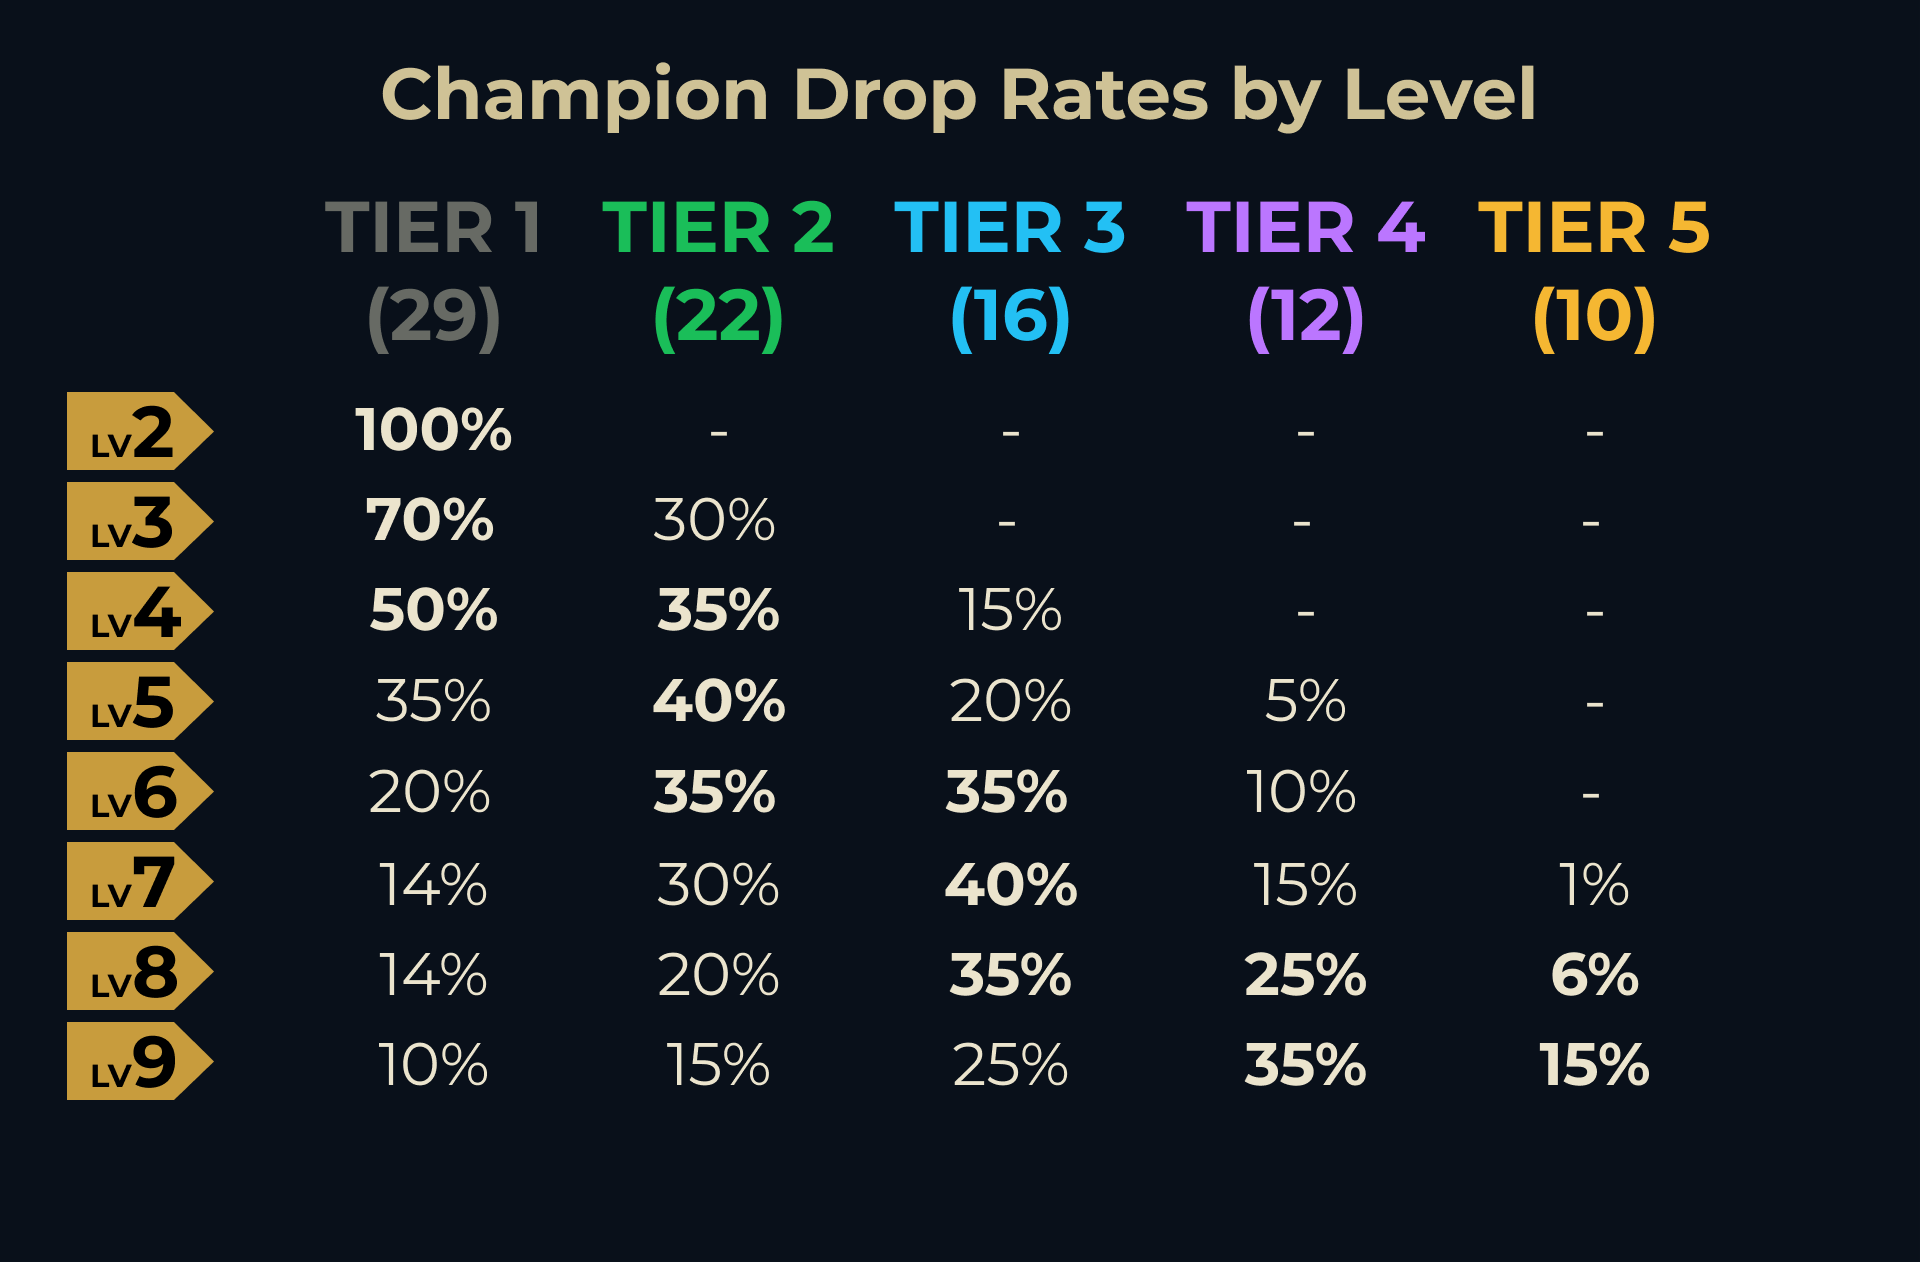
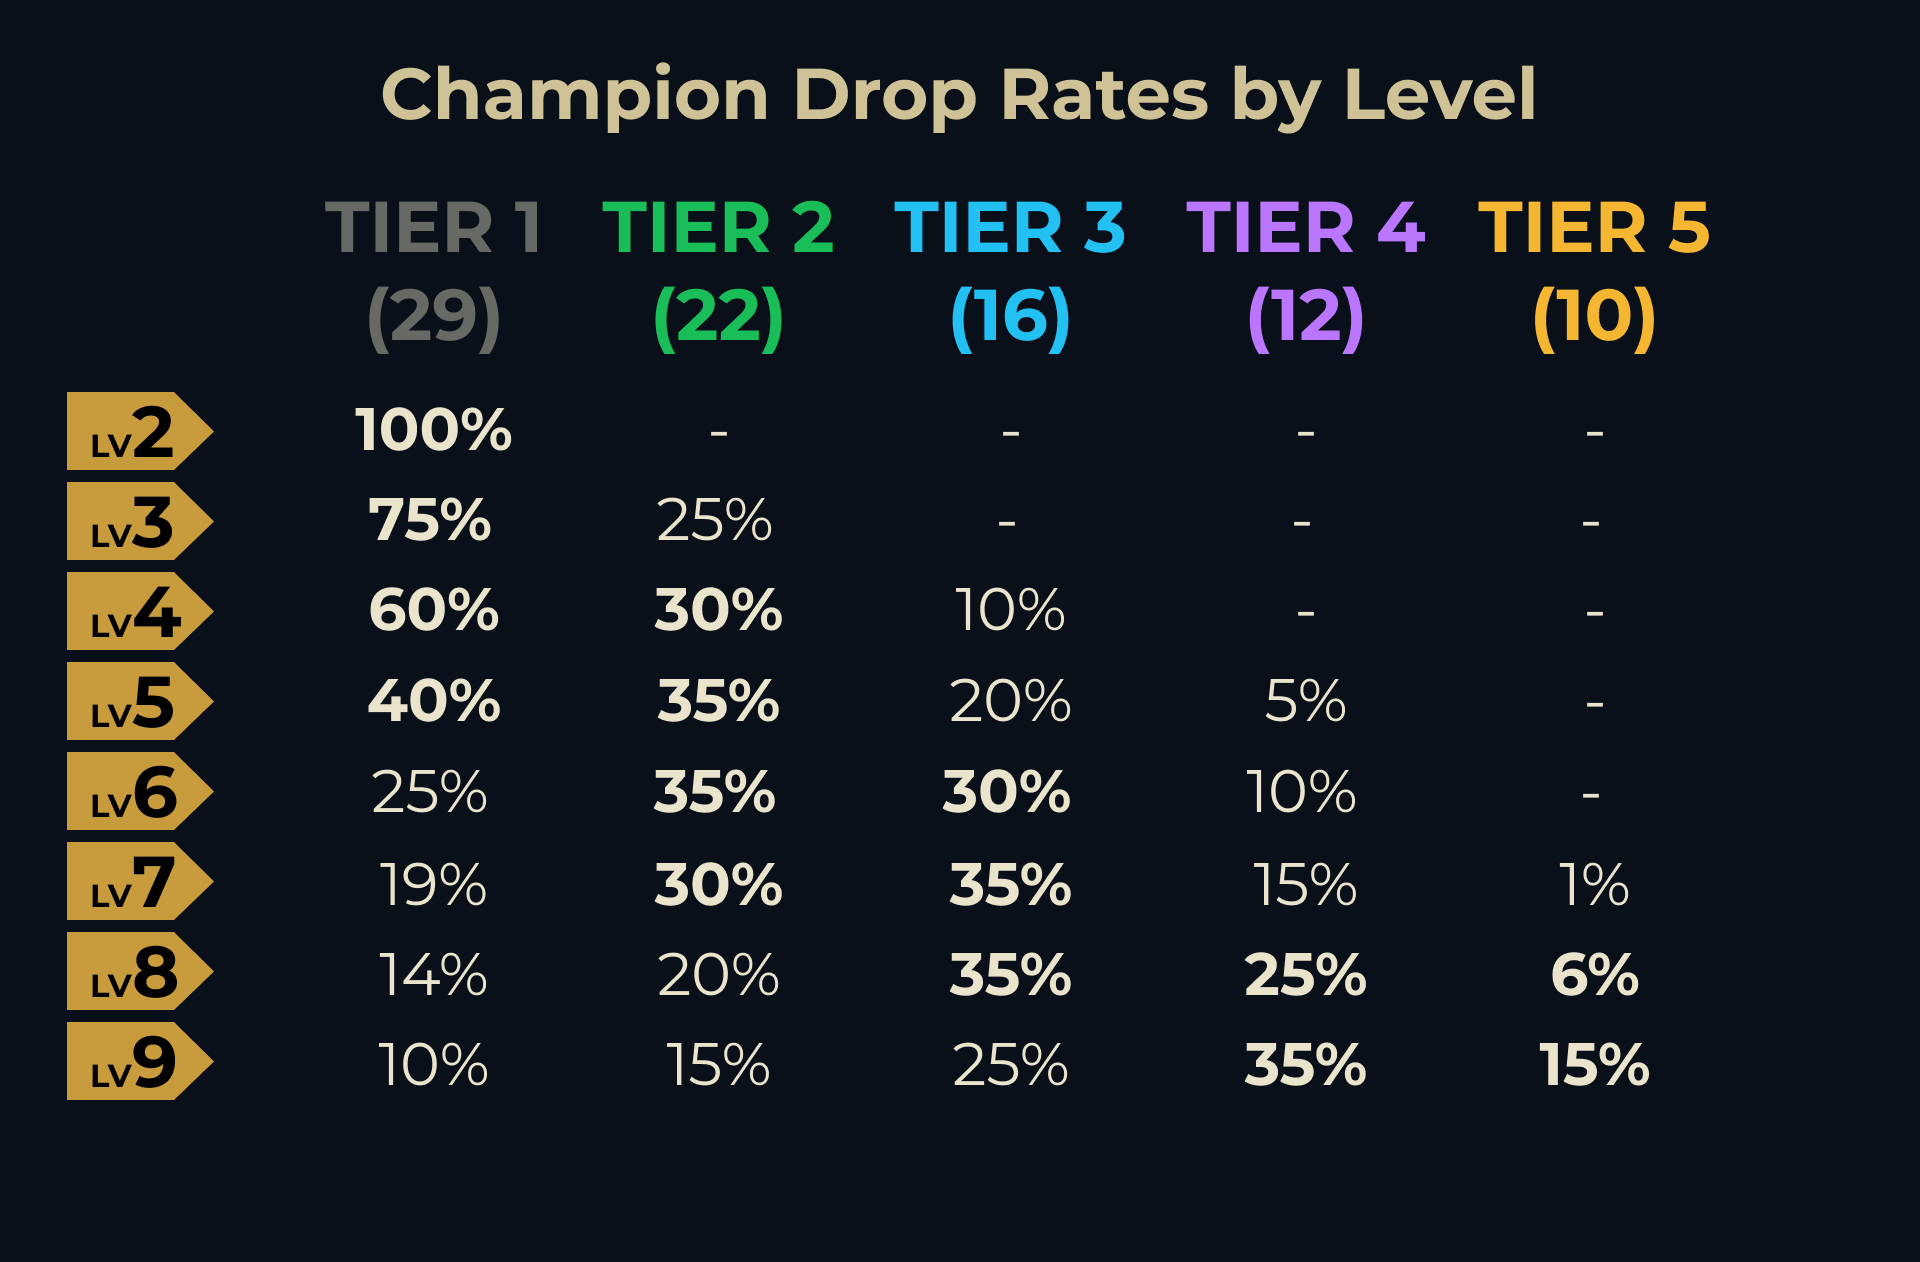
Release version 3.3.0 for patch 10.9

diff --git a/lib/pages/patches_tab_view.dart b/lib/pages/patches_tab_view.dart
@@ -12,6 +12,7 @@ class PatchesTabView extends StatefulWidget {
 
 class _PatchesTabViewState extends State<PatchesTabView> {
   static const _patchKeys = [
+    '10.9',
     '10.8',
     '10.7',
     '10.6',

diff --git a/assets/data/patches/10.9.md b/assets/data/patches/10.9.md
@@ -1,0 +1,141 @@
+Source: [Riot Patch Notes 10.9](https://na.leagueoflegends.com/en-us/news/game-updates/teamfight-tactics-patch-10-9-notes)
+
+## [](https://am-a.akamaihd.net/image?f=https://news-a.akamaihd.net/public/images/articles/2020/April/tftpn109/TFT_10.9_Highlightsv3.jpg)
+
+## Systems
+
+#### Champion Shop Drop Rates
+
+- Level 3: 70/30/0/0/0%⇒75/25/0/0/0%
+- Level 4: 50/35/15/0/0%⇒60/30/10/0/0%
+- Level 5: 35/40/20/5/0%⇒40/35/20/5/0%
+- Level 6: 20/35/35/10/0%⇒25/35/30/10/0%
+- Level 7: 14/30/40/15/1%⇒19/30/35/15/1%
+
+#### Item and Drop changes
+
+- Players can no longer sell units if doing so would cause an item to be deleted.
+- Players can no longer open loot orbs if their item bench is full.
+- Now all players drop at least 1 small orb in the first 3 PVE rounds.
+
+#### New Galaxies
+
+- Treasure Trove: Every minion and monster in the game drops a loot orb.
+- Star Cluster: All Tier 1/2/3 champions on carousels have 2 stars.
+
+#### Galaxy Odds
+
+- Treasure Trove - 12.5% of games
+- Star Cluster - 12.5% of games
+- The Neekoverse - 7.5% of games
+- Lilac Nebula - 7.5% of games
+- Medium Legends - 7.5% of games
+- Superdense Galaxy - 7.5% of games
+- Trade Sector - 10% of games
+- Normal - 35% of games
+
+---
+
+## Traits
+
+#### Focused balance changes
+
+> We're lowering the power of the larger vertical traits, and buffing some of the smaller supplemental traits to open up some more interesting build paths.
+
+- Blademaster proc chance: 30/60/100%⇒30/55/100%
+- Blaster bonus attacks: 3/6⇒3/5
+- Brawler bonus Health: 300/700⇒350/650
+- Celestial: 15/40/65⇒15/35/60
+- Cybernetic: 350&35/750&75⇒350&35/700&70
+- Darkstar Attack Damage and Spell Power: 25/30/35⇒20/25/35
+- Infiltrator Attack Speed Bonus: 50/80/125⇒50/75/120
+- Infiltrator: Now refreshes on takedown at all levels
+- Protector Shield: 20/30/45⇒25/30/40%
+- Rebel Shield: 150/225/350⇒150/210/330
+- Sorcerer Spell Power: 20/45/80/125⇒20/40/75/120
+- Star Guardian Mana: 30/60⇒30/50
+- Vanguard Armor: 60/250⇒125/250
+- Starship: 20 mana per second⇒40 mana per second
+- Valkyrie Critical Strike threshold: 50%⇒40% or below
+
+#### General balance and other adjustments
+
+- Blademaster: Increased the speed of the bonus attacks
+- Chrono Attack Speed: 15/35/75% every 4 seconds⇒15% every 8/4/2 seconds
+- Chrono: First tick now happens immediately on start of combat.
+- Mech Pilot Mana granted to Pilots on Mech death: 25⇒0
+- Mech Pilot Base Health: 1800⇒1500
+- Mech Pilot Share of Pilot Health: 50%⇒45%
+
+---
+
+## Champions
+
+#### Tier 1 Champions
+
+- Fiora Riposte Stun: 1.5/1.5/1.5⇒1.5/1.5/3 seconds
+- Graves Smoke Grenade Blind Duration: 4/4/4⇒3/4/5 seconds
+- Kha'zix Taste their Fear Damage: 175/250/400⇒200/275/500
+- Leona Eclipse Damage Reduction: 40/80/120⇒40/80/200
+- Malphite Energy Shield: 40%/45%/50%⇒40%/45%/60%
+- Twisted Fate Wild Cards Damage: 200/300/500⇒200/300/550
+- Ziggs Bomb! Damage: 250/325/550⇒300/400/700
+
+#### Tier 2 Champions
+
+- Annie Health: 600⇒700
+- Lucian: Will now target the nearest enemy with his Double Tap after dashing if his current target is dead
+- Sona Aria of Perseverance Cleanse: All Debuffs⇒Only Stuns
+- Sona Aria of Perseverance Heal amount: 100/150/200⇒150/200/300
+- Rakan Grand Entrance Targeting: Farthest unit within 3 Hexes⇒Farthest unit within Attack Range + 1 Hex
+- Yasuo Last Breath Targeting: Highest Item unit⇒Farthest unit within Attack Range + 2 Hexes
+
+#### Tier 3 Champions
+
+- Master Yi Chosen One Healing: 8%/10%/15%⇒12% at all levels
+- Rumble Flame Spitter Damage: 250/400/800⇒350/500/1000
+
+#### Tier 4 Champions
+
+- Jinx Rocket Magic Damage: 100/175/750⇒125/200/750
+
+#### Tier 5 Champions
+
+- Aurelion Sol Mana: 30/80⇒40/120
+- Gangplank Mana: 75/175⇒100/175
+- Gangplank Faster Impact Upgrade: 1 sec⇒0.3 sec delay
+- Xerath Abyssal Bombardment Damage: 350/450/2500⇒300/400/2500
+- Xerath Abyssal Bombardment Splash Damage (% of base damage): 50%⇒25%
+
+---
+
+## Items
+
+- Quicksilver shield duration: 15sec⇒10sec
+
+---
+
+## Bugfixes
+
+- Star Guardian 3 is now a Bronze Trait.
+- Fixed a bug where Xerath could continue firing meteors while reviving from Guardian Angel if he started casting right before he died.
+- Fixed a bug where Xerath would lose his transformed state when activating Guardian Angel.
+- Fixed a bug where Xerath would get stuck in his idle animation if stunned while transformed.
+- Ahri now waits until her first orb returns to cast another one
+
+---
+
+## Mobile Corner
+
+- Equipping Items in out of game loadouts screen will now be much faster.
+- Took out the tuning fork and made sure the “Login Successful” SFX now plays correctly.
+- Your loadout will no longer get messed up when you log out of the app.
+- Arena Skins Icons are no longer uncomfortably zoomed in and will show what the skin is (entirely).
+- You can now remove a friend from your friends list, we've all been there.
+- If you don't select the "stay signed in" option, you will no longer stay signed in. Crazy.
+- The Stage indicator panel will no longer be wonky (it's a technical term) if you surrendered in previous games.
+- Little Legends rarity is now shown on the loadouts panel.
+- The Ready Check indicator and Social Panel got a bunch of small visual fixes. They should be generally cleaner now.
+- Begone! Expired missions do not show up in the missions panel anymore.
+- Social Auth accounts can now access their inventory when they first login and play the game.
+- Game no longer crashes when opening a trait panel in Team Planner, woops.
